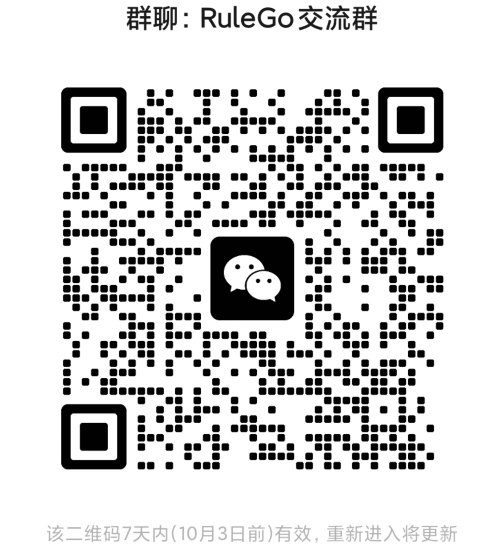
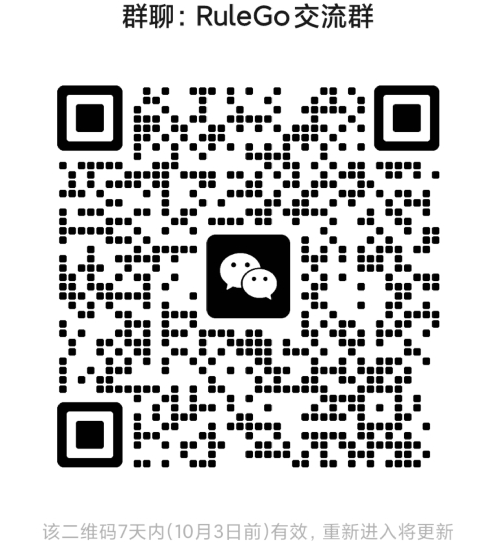
优化加入社区讨论页面

Changed region(s): [[0.0922, 0.154, 0.9221, 0.8623], [0.0922, 0.9239, 0.9221, 0.9855], [0.2459, 0.0, 0.7684, 0.0616]]

diff --git a/docs/加入社区讨论.md b/docs/加入社区讨论.md
@@ -8,12 +8,10 @@ date: 2023-09-13 15:35:33
 permalink: /pages/257c28/
 ---
 
+RuleGo的发展离不开你们的关注和支持，我渴望得到你们的反馈。
+
 如果你在使用中有问题，或者想咨询了解，可以加入群聊，我会细心答复每一个人的疑问。 
 
-QQ群号：**720103251**    
-
-![img](/img/qq.png)     
-
-**微信：**       
-
-<img alt="img" height="258" src="/img/wechat.png" width="258"/>      
+|                  QQ群:`720103251`                   |                           微信群(先加好友备注`加群`)                            |                         微信群(扫码加入)                         |
+|:--------------------------------------------------:|:--------------------------------------------------------------------:|:---------------------------------------------------------:|
+| <img src="/img/qq.png" alt="QQ QRcode" width=260 > | <img src="/img/wechat_rulegoteam.png" alt="Wechat QRcode" width=260> | <img src="/img/wechat.png" alt="Wechat QRcode" width=260> | 
